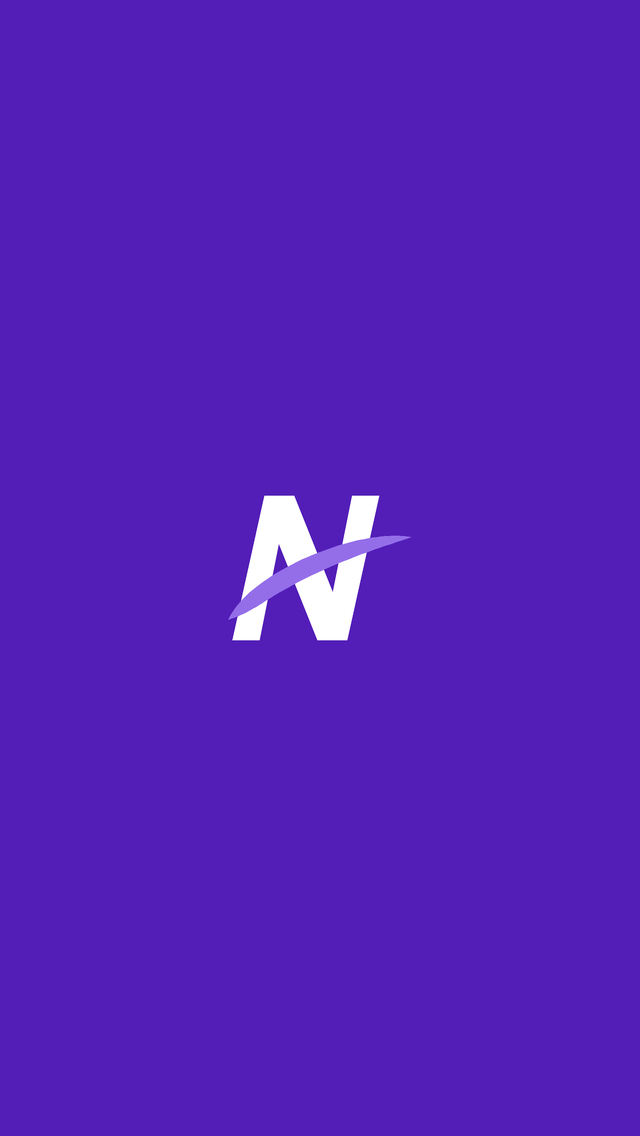
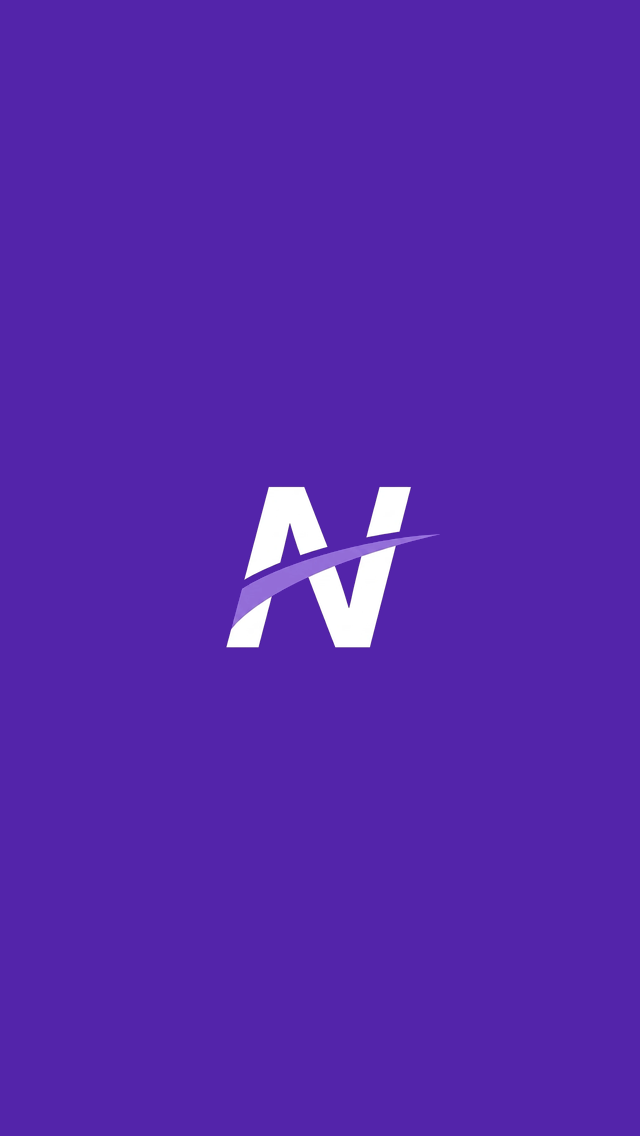
feat: アプリアイコンを新デザインに差し替え (v3.36.2)
icon/apple-touch-icon/manifest/起動画像/ヘッダーロゴを新PNGに統一。背景色をアイコンに合わせて#5324AAに変更。旧SVGは削除。

Changed region(s): [[0.3438, 0.4005, 0.6562, 0.5854]]

diff --git a/src/components/Header.tsx b/src/components/Header.tsx
@@ -37,34 +37,7 @@ export const Header: React.FC<HeaderProps> = ({
           <div className="flex items-center gap-2.5 min-w-0">
             {/* Custom Brand Logo Icon */}
             <div className="w-8 h-8 shrink-0 relative">
-              <svg
-                viewBox="0 0 100 100"
-                fill="none"
-                xmlns="http://www.w3.org/2000/svg"
-                className="w-full h-full rounded-xl shadow-xs"
-              >
-                {/* Background */}
-                <rect width="100" height="100" rx="22" fill="#521EB7" />
-                
-                {/* Slanted Bold White N */}
-                <path
-                  d="M 34 22 H 45.5 L 60.5 59.5 L 68 22 H 78.5 L 66 78 H 54.5 L 39.5 40.5 L 32 78 H 21.5 Z"
-                  fill="white"
-                />
-                
-                {/* Dynamic Purple Swoosh Arc */}
-                <path
-                  d="M 20 70 C 24 61 37 51 55 44 C 73 37 85 37 91 38 C 76 43 54 50 34 63 C 25 69 20 70 20 70 Z"
-                  fill="#9772EC"
-                  fillOpacity="0.95"
-                />
-
-                {/* 4-point Sparkle Star */}
-                <path
-                  d="M 88 83 C 88 85.5 89.5 87 92 87 C 89.5 87 88 88.5 88 91 C 88 88.5 86.5 87 84 87 C 86.5 87 88 85.5 88 91 Z"
-                  fill="#C4B5FD"
-                />
-              </svg>
+              <img src="./icon.png" alt="神埼線アプリ" className="w-full h-full rounded-xl shadow-xs" />
             </div>
 
             {/* Title: 神埼線アプリ */}

diff --git a/index.html b/index.html
@@ -7,7 +7,7 @@
 
     <!-- PWA & Web Push Meta Tags -->
     <link rel="manifest" href="./manifest.json" />
-    <meta name="theme-color" content="#521EB7" />
+    <meta name="theme-color" content="#5324AA" />
     <meta name="mobile-web-app-capable" content="yes" />
     <meta name="apple-mobile-web-app-capable" content="yes" />
     <meta name="apple-mobile-web-app-status-bar-style" content="black-translucent" />
@@ -37,7 +37,7 @@
         margin: 0;
         padding: 0;
         min-height: 100%;
-        background-color: #521EB7; /* 白画面を一瞬も出さず神埼パープルで即時表示 */
+        background-color: #5324AA; /* 白画面を一瞬も出さず神埼パープルで即時表示 */
       }
       #root {
         min-height: 100%;
@@ -45,7 +45,7 @@
       .splash-screen {
         position: fixed;
         inset: 0;
-        background-color: #521EB7;
+        background-color: #5324AA;
         display: flex;
         align-items: center;
         justify-content: center;

diff --git a/src/components/SettingsTab.tsx b/src/components/SettingsTab.tsx
@@ -606,7 +606,7 @@ export const SettingsTab: React.FC<SettingsTabProps> = ({
           className="text-[10px] font-medium text-[#6B6380] hover:text-[#5B21B6] transition-colors cursor-pointer"
           title="管理者コンソールを開く"
         >
-          神埼鉄道 NIZAKI App v3.36.1
+          神埼鉄道 NIZAKI App v3.36.2
         </button>
         <p className="text-[9px] text-[#857D99]">© Nizaki Electric Railway Co., Ltd.</p>
       </div>

diff --git a/src/utils/systemLogger.ts b/src/utils/systemLogger.ts
@@ -384,7 +384,7 @@ export const systemLogger = {
     }
 
     return {
-      appVersion: 'v3.36.1',
+      appVersion: 'v3.36.2',
       environment: process.env.NODE_ENV === 'production' ? 'Production' : 'Development',
       userAgent: ua,
       deviceType,
